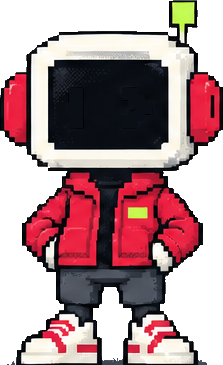
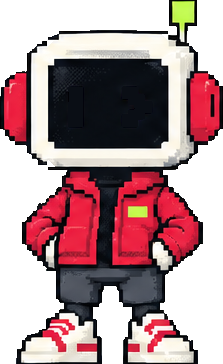
Landing na telefonie: czysty robot bez obwódki, stoi i wita się w dymku
Wycinanie zjada krawędź aż do ciemnego konturu (koniec z jasną obwódką), w CSS równy obrys.
Robot już się nie przełącza sam: stoi, mruga, a nad nim komiksowy dymek wpisuje „Hi, I'm JARVO.
What are we building today?”. Tapnięcie: krótki podskok i kolejny tekst. Zostaje tylko poza FRONT.

Claude-Session: https://claude.ai/code/session_01ERqepzc1jkfuEMGqXAHzmH

diff --git a/site/app.js b/site/app.js
@@ -62,9 +62,8 @@
   setTimeout(blink, 1600);
 
   // ---------------------------------------------------------------- terminal: ktoś pisze, Jarvo odpowiada
-  let held = 0;   // robot mówi swoje (powitanie, tapnięcie): dymek chwilowo nie pokazuje rozmowy
   // ta sama rozmowa w terminalu (desktop) i w dymku robota (telefon)
-  const each = (sel, t) => { for (const el of document.querySelectorAll(sel)) if (!(held && el.closest(".bubble"))) el.textContent = t; };
+  const each = (sel, t) => { for (const el of document.querySelectorAll(sel)) el.textContent = t; };
   const ask = { set textContent(t) { each("[data-ask]", t); } }, reply = { set textContent(t) { each("[data-reply]", t); } };
   const askEl = $("#ask"), replyEl = $("#reply"), cursor = $("#cursor"), sceneInner = $(".scene-inner");
   const talks = [
@@ -81,49 +80,44 @@
     for (let i = 1; i <= text.length; i++) { el.textContent = text.slice(0, i); await sleep(min + Math.random() * spread); }
     cursor.classList.remove("is-typing"); busy = false;
   }
-  // ---------------------------------------------------------------- robot na telefonie: pozy z karty postaci
-  const bot = $("#bot");
-  const poseAfter = ["ship", "build", "review", "build", "front"];   // czym „odpowiada” ciało po każdej rozmowie
-  function pose(name) {
-    for (const im of bot.querySelectorAll(".pose")) im.classList.toggle("on", im.dataset.pose === name);
-    bot.classList.toggle("is-front", name === "front");
-  }
-  function move(cls) { bot.classList.remove("hop", "wave", "enter"); void bot.offsetWidth; bot.classList.add(cls); }
-  const quips = [
-    ["ship", "Hey! I'm JARVO. Your digital right hand."],
-    ["review", "Poking me won't make it ship faster. Start building will."],
-    ["think", "Thinking… about coffee. And your roadmap."],
-    ["build", "Busy building. Tap Start building and join in."],
-    ["ship", "High five! Well, a high pixel."],
+  // ---------------------------------------------------------------- robot na telefonie: stoi, mruga, wita się w dymku
+  const bot = $("#bot"), bubble = $(".bubble"), hello = $("#hello");
+  const lines = [
+    "Hi, I'm <b>JARVO</b>.\nYour digital right hand.",
+    "Tap <b>Start building</b>\nand let's get to work.",
+    "Research, sites, videos, docs.\nOne team, zero drama.",
+    "Still here. Still ready, boss.",
   ];
-  let qi = 1;
-  async function say(p, text, ms) {
-    held++; pose(p); move(p === "ship" ? "wave" : "hop");
-    for (const w of document.querySelectorAll(".bubble .t-who")) w.style.visibility = "";
-    for (const el of document.querySelectorAll(".bubble [data-ask]")) el.textContent = "";
-    for (const el of document.querySelectorAll(".bubble [data-reply]")) el.textContent = text;
-    await sleep(ms); held--; if (!held) pose("front");
+  let li = 0, talking = 0;
+  async function speak(html) {
+    const id = ++talking;
+    bubble.classList.add("show");
+    const plain = html.replace(/<[^>]+>/g, ""), tags = [...html.matchAll(/<b>(.*?)<\/b>/g)].map((m) => m[1]);
+    for (let i = 1; i <= plain.length; i++) {
+      if (id !== talking) return;
+      let s = plain.slice(0, i);
+      for (const t of tags) s = s.replace(t, `<b>${t}</b>`);
+      hello.innerHTML = s + '<span class="caret"></span>';
+      await sleep(plain[i - 1] === "\n" ? 220 : 32 + Math.random() * 30);
+    }
   }
-  bot.addEventListener("click", () => { const [p, t] = quips[qi++ % quips.length]; say(p, t, 2600); });
+  setTimeout(() => speak(lines[0]), reduced ? 0 : 700);
+  bot.addEventListener("click", () => {
+    bot.classList.remove("hop"); void bot.offsetWidth; bot.classList.add("hop");
+    li = (li + 1) % lines.length; speak(lines[li]);
+  });
   bot.addEventListener("keydown", (e) => { if (e.key === "Enter" || e.key === " ") { e.preventDefault(); bot.click(); } });
 
   async function loop() {
     const whos = document.querySelectorAll(".t-who");
-    if (mobile.matches) { move("enter"); await sleep(500); await say("ship", quips[0][1], 2800); }   // wejście: macha i się przedstawia
-    for (;;) for (const [n, [q, a]] of talks.entries()) {
-      while (held) await sleep(200);
+    for (;;) for (const [q, a] of talks) {
       ask.textContent = ""; reply.textContent = ""; for (const w of whos) w.style.visibility = "hidden";
       await sleep(500);
-      if (!held) pose("think");                   // ktoś pisze: robot myśli
-      await type(ask, q, 45, 70, askEl);
+      await type(ask, q, 45, 70, askEl);          // człowiek pisze wolniej, z wahaniem
       await sleep(650);
       for (const w of whos) w.style.visibility = "";
-      if (!held) { pose("front"); move("hop"); }  // odpowiada
-      await type(reply, a, 16, 22, replyEl);
-      await sleep(900);
-      if (!held) { pose(poseAfter[n % poseAfter.length]); move(poseAfter[n % poseAfter.length] === "ship" ? "wave" : "hop"); }
-      await sleep(2400);
-      if (!held) pose("front");
+      await type(reply, a, 16, 22, replyEl);      // Jarvo odpowiada szybko
+      await sleep(3200);
     }
   }
   if (!reduced) loop();

diff --git a/site/style.css b/site/style.css
@@ -261,29 +261,27 @@ button { font: inherit; color: inherit; cursor: pointer; }
   .title img { height: auto; }
   .sub { flex: none; font-size: clamp(19px, 5.4vw, 28px); margin-top: 1vh; }
   .bot { display: flex; flex: 1; min-height: 0; flex-direction: column; align-items: center; justify-content: flex-end; padding-top: 1.5vh; }
-  .bubble { flex: none; align-self: stretch; margin: 0 0 1.2vh; padding: 10px 12px; border: 1px solid var(--line); border-radius: 6px;
-    background: #0F131B; font: 13px/1.45 var(--mono); position: relative; height: calc(3 * 1.45em + 20px); overflow: hidden; }
-  .bubble::after { content: ""; position: absolute; left: 50%; bottom: -7px; width: 12px; height: 12px; background: #0F131B;
-    border: solid var(--line); border-width: 0 1px 1px 0; transform: translateX(-50%) rotate(45deg); }
-  .bubble p { margin: 0; }
-  .b-ask .t-gt { color: var(--lime); margin-right: 8px; }
-  .b-ask:has([data-ask]:empty) { display: none; }
-  .b-reply .t-who { margin-right: 8px; }
-  .bot-fig { position: relative; flex: 1; min-height: 0; aspect-ratio: 266 / 365; max-width: 100%; cursor: pointer; -webkit-tap-highlight-color: transparent;
-    animation: bob 2.6s ease-in-out infinite; }
-  .bot-fig img { position: absolute; bottom: 0; left: 50%; height: auto; transform: translateX(-50%); image-rendering: pixelated; }
-  .pose { visibility: hidden; }
-  .pose.on { visibility: visible; }
+  /* dymek nad robotem: komiksowy, z ogonkiem w stronę głowy */
+  .bubble { flex: none; position: relative; max-width: 300px; margin: 0 auto 16px; padding: 12px 16px; border: 1.5px solid var(--ink);
+    border-radius: 14px; background: #121722; font: 500 15px/1.45 var(--mono); color: var(--ink); min-height: calc(2 * 1.45em + 24px);
+    box-shadow: 0 0 0 4px rgba(242, 241, 232, .04), 0 10px 30px rgba(0, 0, 0, .35); opacity: 0; transform: translateY(6px) scale(.96);
+    transition: opacity .35s, transform .35s cubic-bezier(.2, 1.4, .4, 1); }
+  .bubble.show { opacity: 1; transform: none; }
+  .bubble::after { content: ""; position: absolute; left: 50%; bottom: -9px; width: 14px; height: 14px; background: #121722;
+    border: solid var(--ink); border-width: 0 1.5px 1.5px 0; transform: translateX(-50%) rotate(45deg); }
+  .bubble p { margin: 0; white-space: pre-line; }
+  .bubble b { color: var(--lime); font-weight: 600; }
+  .bubble .caret { display: inline-block; width: 8px; height: 15px; margin-left: 3px; vertical-align: -2px; background: var(--lime); animation: cur 1.06s steps(1) infinite; }
+  .bot-fig { position: relative; flex: 1; min-height: 0; aspect-ratio: 223 / 364; max-width: 100%; cursor: pointer;
+    -webkit-tap-highlight-color: transparent; animation: enter .8s cubic-bezier(.2, 1.3, .4, 1) both; }
+  .bot-fig img { position: absolute; inset: 0; width: 100%; height: 100%; image-rendering: pixelated; }
+  /* równy ciemny kontur (oryginał ma go miejscami za cienki) */
+  .bot-fig .pose { filter: drop-shadow(1.5px 0 0 #07090D) drop-shadow(-1.5px 0 0 #07090D) drop-shadow(0 1.5px 0 #07090D) drop-shadow(0 -1.5px 0 #07090D); }
   .bot-eyes { filter: drop-shadow(0 0 5px rgba(184, 255, 61, .7)); transform-origin: 50% 32%; }
-  .bot-fig:not(.is-front) .bot-eyes { visibility: hidden; }
   .bot-eyes.blink { animation: blink .22s steps(2, jump-none) 1; }
-  .bot-fig.hop { animation: hop .5s cubic-bezier(.3, 1.6, .5, 1) 1, bob 2.6s ease-in-out .5s infinite; }
-  .bot-fig.wave { animation: wave .9s ease-in-out 2, bob 2.6s ease-in-out 1.8s infinite; transform-origin: 50% 100%; }
-  .bot-fig.enter { animation: enter .7s cubic-bezier(.2, 1.4, .4, 1) 1 both; }
-  @keyframes hop { 0% { transform: translateY(0) scaleY(1); } 20% { transform: translateY(2px) scaleY(.94); } 55% { transform: translateY(-18px) scaleY(1.03); } 100% { transform: none; } }
-  @keyframes wave { 0%, 100% { transform: rotate(0); } 25% { transform: rotate(-4deg); } 75% { transform: rotate(4deg); } }
-  @keyframes enter { from { transform: translateY(60px); opacity: 0; } to { transform: none; opacity: 1; } }
-  @keyframes bob { 0%, 100% { transform: translateY(0); } 50% { transform: translateY(-5px); } }
+  .bot-fig.hop { animation: hop .45s cubic-bezier(.3, 1.6, .5, 1) 1; }
+  @keyframes hop { 0% { transform: none; } 25% { transform: translateY(2px) scaleY(.96); } 60% { transform: translateY(-12px); } 100% { transform: none; } }
+  @keyframes enter { from { transform: translateY(40px); opacity: 0; } to { transform: none; opacity: 1; } }
   .cta { flex: none; margin-top: 1.6vh; order: 9; }
   .btn-start { width: 100%; height: 54px; justify-content: center; padding: 0; font-size: 18px; }
   .inst { padding: 28px 18px 22px; }

diff --git a/site/index.html b/site/index.html
@@ -34,9 +34,8 @@
 
     <!-- telefon: sam robot z karty postaci i dymek z rozmową (na desktopie ukryty) -->
     <div class="bot">
-      <div class="bubble"><p class="b-ask"><span class="t-gt">&gt;</span><span data-ask>yo, let's take over the world</span></p>
-        <p class="b-reply"><span class="t-who">jarvo</span><span data-reply>Already on it, boss. Phase one starts Monday.</span></p></div>
-      <div class="bot-fig is-front" id="bot" role="button" tabindex="0" aria-label="JARVO"><img class="pose on" data-pose="front" src="assets/robot-front.png" alt="" style="width:83.83%"><img class="pose" data-pose="think" src="assets/robot-think.png" alt="" style="width:81.20%"><img class="pose" data-pose="build" src="assets/robot-build.png" alt="" style="width:94.36%"><img class="pose" data-pose="review" src="assets/robot-review.png" alt="" style="width:96.62%"><img class="pose" data-pose="ship" src="assets/robot-ship.png" alt="" style="width:100.00%"><img class="bot-eyes" id="bot-eyes" src="assets/robot-eyes.png" alt="" style="width:83.83%"></div>
+      <div class="bubble" aria-live="polite"><p id="hello"></p></div>
+      <div class="bot-fig is-front" id="bot" role="button" tabindex="0" aria-label="Say hi to JARVO"><img class="pose on" src="assets/robot-front.png" alt="JARVO"><img class="bot-eyes" id="bot-eyes" src="assets/robot-eyes.png" alt=""></div>
     </div>
 
     <!-- ilustracja: tło + ruchome warstwy (site/tools/art.mjs) -->

diff --git a/site/README.md b/site/README.md
@@ -4,7 +4,7 @@ Statyczna strona (bez buildu, bez CDN): `index.html`, `style.css`, `app.js`, `as
 Podgląd: `python3 -m http.server -d site 8080` → http://localhost:8080.
 
 - **Układ 1:1 z makietą** `JARVO-landing-page-koncepcja.png` (1536×1024): na desktopie plansza skaluje się do
-  szerokości okna, zawsze mieści się na jednym ekranie (szerokość i wysokość). Telefon (≤ 820 px): też jeden ekran, zamiast sceny przy biurku robot z karty postaci (`tools/robot.mjs`: 5 póz bez tła i jasnej obwódki). Wchodzi i macha na powitanie, myśli (THINK), gdy ktoś pisze, odpowiada w dymku, potem pokazuje BUILD/REVIEW/SHIP; tapnięcie = poza i tekst.
+  szerokości okna, zawsze mieści się na jednym ekranie (szerokość i wysokość). Telefon (≤ 820 px): też jeden ekran, zamiast sceny przy biurku robot z karty postaci (`tools/robot.mjs`: poza FRONT bez tła). Stoi spokojnie i mruga, nad nim dymek z powitaniem „Hi, I'm JARVO”; tapnięcie = krótki podskok i kolejny tekst. Czysty kontur (krawędź wycinka zjedzona do konturu, równy obrys w CSS).
 - **Robot się rusza:** oczy idą za kursorem i mrugają, dłonie stukają, gdy terminal pisze, panele pływają
   z paralaksą, antena i ekran laptopa świecą, z kubka leci para, po panelach przewijają się dane, a czerwonymi kablami płynie energia. Przy `prefers-reduced-motion` wszystko stoi.
 - **Warstwy ilustracji** generuje `tools/art.mjs` z grafiki z pakietu marki (tło bez ruchomych elementów
